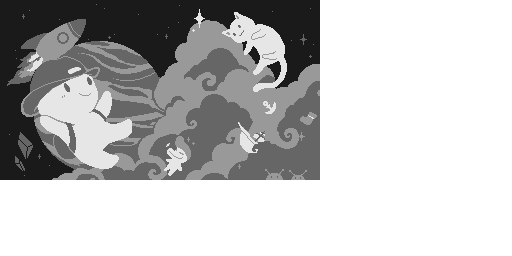
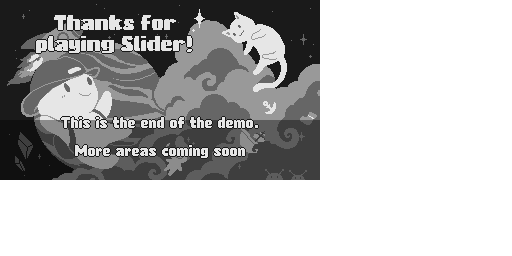
Ending: EndOfDemo's texts baked into its image, in the original's fonts
make_ui.py composes the whole 320x180 canvas in its draw order: the end art,
"Thanks for / playing Slider!" in PixelTitanOne 20 (word-wrapped as TMP does in its
200 px box), the dark panel, then "This is the end of the demo." / (blank) / "More
areas coming soon" in PixelTitanZero 16, each outlined, laid out from the font
assets' face info. The top screen is now one sprite (was ~322 draws).

Changed region(s): [[0.0312, 0.4375, 0.625, 0.7188], [0.0625, 0.0625, 0.375, 0.2188]]

diff --git a/tools/make_ui.py b/tools/make_ui.py
@@ -23,7 +23,9 @@ Slider3DSTitleExporter: the layout), cut from TITLE_TEXTURES:
   assets/sheets/ui_title.png  the sheet (.fmt by its colors)
   assets/ui/title_sheet.json  {"sheet", "sprites": {name: {"rect", "pivot": [x, y] (px from the bottom-left)}}}
 
-The ending's art (the demo's EndOfDemo.unity Background: end_cutscene_parallax_0, 320x180; game/ui/end_screen):
+The ending's top screen (game/ui/end_screen): the demo's EndOfDemo.unity canvas (320x180) baked into one
+image, in its draw order — Background (end_cutscene_parallax_0), the title outlined, DarkPanel, the text
+outlined — with TextMeshPro's layout worked out here (END_TEXTS); the second text line is the port's:
   assets/sheets/ui_end.png    the sheet (.fmt by its colors)
   assets/ui/end.json          {"sheet", "sprites": {"art": {"rect"}}}
 
@@ -141,9 +143,52 @@ def menu():
     print(f"menu: {len(sprites)} sprites, sheet {sheet.width}x{sheet.height}")
 
 
-# The title art's textures (assets/ui/title.json names their sprites: Slider3DSTitleExporter).
+FONTS = os.path.join(ASSETS, "Fonts", "originalFonts")
+LIGHT = (230, 230, 230, 255)  # the texts' m_fontColor 0.902
+DARK = (26, 26, 26, 255)      # their outline copies' 0.102
+# EndOfDemo's TMP texts: font, size, lines (centered; "" = a blank line), the middle of the box they're
+# centered in (canvas px from the top-left; VerticalAlignment Middle), and the font asset's face info
+# (pointSize, lineHeight, ascent, descent) for TMP's line layout. Title Text: "Thanks for playing Slider!"
+# in a 200 px box at (-45, 55) from the middle, word-wrapped to two lines. Text: a 320 px box centered
+# 42.5 px up from the bottom, lineSpacing -15; "Please wishlist Slider on Steam!" -> the port's line.
+END_TEXTS = [
+    ("PixelTitanOne.ttf", 20, ["Thanks for", "playing Slider!"], (160 - 45, 90 - 55), (151, 155.1289, 113.25, -28.3125), 0),
+    ("PixelTitanZero.ttf", 16, ["This is the end of the demo.", "", "More areas coming soon"], (160, 180 - 42.5),
+     (172, 176.70312, 129, -32.25), -15),
+]
+END_PANEL = (60, 0.392)  # DarkPanel: the canvas's bottom 60 px, black at 0.392
+
+
+def draw_tmp_text(img, ttf, size, lines, center, face, line_spacing):
+    """Lines as TMP lays them out (centered, the block's ascender-to-descender middle on `center`),
+    each outlined like EndOfDemo's texts (dark copies 1 px around, then light)."""
+    from PIL import ImageDraw, ImageFont
+    point, line_height, ascent, descent = face
+    scale = size / point
+    advance = line_height * scale + line_spacing * size / 100  # (TMP: lineSpacing in em / 100)
+    height = ascent * scale + (len(lines) - 1) * advance - descent * scale
+    top = center[1] - height / 2
+    font = ImageFont.truetype(os.path.join(FONTS, ttf), size)
+    draw = ImageDraw.Draw(img)
+    draw.fontmode = "1"  # (pixel fonts: no antialiasing)
+    for i, line in enumerate(lines):
+        if not line:
+            continue
+        baseline = round(top + ascent * scale + i * advance)
+        x = round(center[0] - draw.textlength(line, font=font) / 2)
+        for dx, dy in ((-1, 0), (1, 0), (0, -1), (0, 1)):
+            draw.text((x + dx, baseline + dy), line, font=font, fill=DARK, anchor="ls")
+        draw.text((x, baseline), line, font=font, fill=LIGHT, anchor="ls")
+
+
 def end():
     img, _ = unity_sprite("Sprites/UI/end_cutscene/end_cutscene_parallax.png", "end_cutscene_parallax_0")
+    title, text = END_TEXTS
+    draw_tmp_text(img, *title)
+    panel_h, alpha = END_PANEL
+    panel = Image.new("RGBA", (img.width, panel_h), (0, 0, 0, round(alpha * 255)))
+    img.alpha_composite(panel, (0, img.height - panel_h))
+    draw_tmp_text(img, *text)
     sheet, placed = pack({"art": img}, 512)
     write_sheet(sheet, "ui_end")
     write_json(os.path.join(REPO, "assets", "ui", "end.json"), "ui_end",
@@ -151,6 +196,7 @@ def end():
     print(f"end: sheet {sheet.width}x{sheet.height}")
 
 
+# The title art's textures (assets/ui/title.json names their sprites: Slider3DSTitleExporter).
 TITLE_TEXTURES = ["Sprites/UI/menus/pixel_logo.png", "Sprites/UI/menus/mainmenu_bg_stars.png",
                   "Sprites/UI/menus/mainmenu_giant_star.png", "Sprites/UI/menus/mainmenu_meteor.png",
                   "Sprites/UI/menus/mainmenu_plannet.png", "Sprites/Characters/player/playersprite.png"]

diff --git a/src/game/ui/end_screen.cpp b/src/game/ui/end_screen.cpp
@@ -1,8 +1,6 @@
 #include "game/ui/end_screen.h"
 
-#include <algorithm>
 #include <cmath>
-#include <utility>
 
 #include "game/ui/menu_skin.h"
 #include "game/ui/palette.h"
@@ -10,32 +8,13 @@
 namespace {
 
 constexpr int S = MenuSkin::UI_SCALE;
-// EndOfDemo.unity's 320x180 canvas, centered on the top screen.
+// EndOfDemo.unity's 320x180 canvas (baked: tools/make_ui.py), centered on the top screen at 1x.
 constexpr int CANVAS_W = 320, CANVAS_H = 180;
 constexpr int CANVAS_X = (plat::TOP_W - CANVAS_W) / 2, CANVAS_Y = (plat::TOP_H - CANVAS_H) / 2;
-constexpr int PANEL_H = 60;                                    // DarkPanel: the canvas's bottom 60 px,
-constexpr uint32_t PANEL = plat::rgba(0, 0, 0, 100);           // black at 0.392
-constexpr int TITLE_CX = CANVAS_X + CANVAS_W / 2 - 45;         // Title Text: (-45, 55) from the middle
-constexpr int TITLE_CY = CANVAS_Y + CANVAS_H / 2 - 55;
-constexpr int TEXT_CY = CANVAS_Y + CANVAS_H - 42;              // Text: centered 42.5 px up from the bottom
-constexpr int LINE_ADVANCE = 10;                               // px between its two lines
-constexpr const char* TITLE = "Thanks for playing Slider!";
-constexpr const char* LINE_1 = "This is the end of the demo.";
-constexpr const char* LINE_2 = "More areas coming soon";
 // Main Menu (its button), centered on the bottom screen like the pause menu's (UI px).
 constexpr int BUTTON_W = 120, BUTTON_H = 18;
 constexpr int BUTTON_X = (plat::BOTTOM_W / S - BUTTON_W) / 2, BUTTON_Y = (plat::BOTTOM_H / S - BUTTON_H) / 2;
 constexpr int BUTTON = 0; // its MenuTap item
-
-// `text` centered on (cx, cy) (its capitals' middle), 1x, light over dark copies 1 px around.
-void drawOutlined(const Font& font, const char* text, int cx, int cy) {
-    const GlyphRect& cap = font.def().glyph('A').text;
-    const float x = (float)(cx - font.textWidth(text) / 2);
-    const float baseline = (float)(cy - (int)std::floor(cap.oy + cap.h / 2.0f));
-    for (const auto& d : {std::pair{-1, 0}, std::pair{1, 0}, std::pair{0, -1}, std::pair{0, 1}})
-        font.drawText(text, x + d.first, baseline + d.second, 1, palette::DARK);
-    font.drawText(text, x, baseline, 1, palette::OFF_WHITE);
-}
 
 } // namespace
 
@@ -64,11 +43,6 @@ bool EndScreen::update(const plat::Input& in) {
 void EndScreen::drawTop(const MenuSkin& skin) const {
     plat::beginScreen(plat::Screen::Top, palette::DARK); // (the art's own background around it)
     skin.drawEndArt(CANVAS_X, CANVAS_Y);
-    plat::drawRect(CANVAS_X, CANVAS_Y + CANVAS_H - PANEL_H, CANVAS_W, PANEL_H, PANEL);
-    const Font& font = skin.font();
-    drawOutlined(font, TITLE, TITLE_CX, TITLE_CY);
-    drawOutlined(font, LINE_1, plat::TOP_W / 2, TEXT_CY - LINE_ADVANCE / 2);
-    drawOutlined(font, LINE_2, plat::TOP_W / 2, TEXT_CY + LINE_ADVANCE / 2);
     if (frames_ < FADE_FRAMES) // (from black)
         plat::drawRect(0, 0, plat::TOP_W, plat::TOP_H, plat::rgba(0, 0, 0, (uint8_t)std::lround(255 - 255.0f * frames_ / FADE_FRAMES)));
 }

diff --git a/src/game/ui/end_screen.h b/src/game/ui/end_screen.h
@@ -1,14 +1,12 @@
 // The port's ending (no area follows the Village yet), after the game faded out through an exit
 // (World::leaveArea): the original demo's EndOfDemo screen fitted to the 3DS (user's choice). Top
-// screen at 1x, its 320x180 canvas centered: the end art (end_cutscene_parallax_0) under a dark
-// panel along its bottom, "Thanks for playing Slider!" and "This is the end of the demo." outlined
-// as its texts are (dark copies 1 px around); the second line is the port's ("More areas coming
-// soon" in place of the Steam wishlist). Bottom screen: its Main Menu button alone (the Steam and
-// Twitter links dropped), at the menus' 2x; A or a tap on it returns to the title. Everything fades
-// in from black; input waits until it has.
+// screen at 1x: its 320x180 canvas centered, baked into one image by tools/make_ui.py (the end art,
+// the original's outlined texts in their own fonts, its dark panel; "More areas coming soon" in
+// place of the Steam wishlist). Bottom screen: its Main Menu button alone (the Steam and Twitter
+// links dropped), at the menus' 2x; A or a tap on it (on release) returns to the title. The top
+// fades in from black over FADE_FRAMES; the button shows and takes input after LOCKOUT_FRAMES.
 #pragma once
 
-#include "game/render/font.h"
 #include "game/ui/menu_input.h"
 #include "platform/platform.h"
 

diff --git a/src/game/ui/menu_skin.h b/src/game/ui/menu_skin.h
@@ -52,7 +52,7 @@ public:
     // The value a touch at UI x `touchX` (fractional) sets on a slider at x, `w` wide (0-1, clamped):
     // the handle's middle follows it.
     static float sliderValueAt(float touchX, int x, int w);
-    // The ending's art (assets/ui/end.json: EndOfDemo's background), 1x with its top-left at
+    // The ending's top screen (assets/ui/end.json: EndOfDemo's canvas, baked), 1x with its top-left at
     // screen px (x, y) — the top screen's scale, not the menus' grid.
     void drawEndArt(int x, int y) const;
     // Its TinyUnicode font (the top screen's HUD draws it at 1x).

diff --git a/tests/render_test.cpp b/tests/render_test.cpp
@@ -630,11 +630,11 @@ TEST(render_ending_goldens) {
     for (int i = 0; i < EndScreen::FADE_FRAMES / 2; i++) end.update({});
     testResetDrawCalls();
     end.drawTop(skin);
-    goldens.compare("ending_fading_in", 20);
+    goldens.compare("ending_fading_in", 2); // (the baked canvas + the fade)
     for (int i = 0; i < EndScreen::LOCKOUT_FRAMES; i++) end.update({});
     testResetDrawCalls();
     end.drawTop(skin);
-    goldens.compare("ending_top", 20);
+    goldens.compare("ending_top", 1);
     testResetDrawCalls();
     end.drawBottom(skin);
     goldens.compare("ending_bottom", 10);
